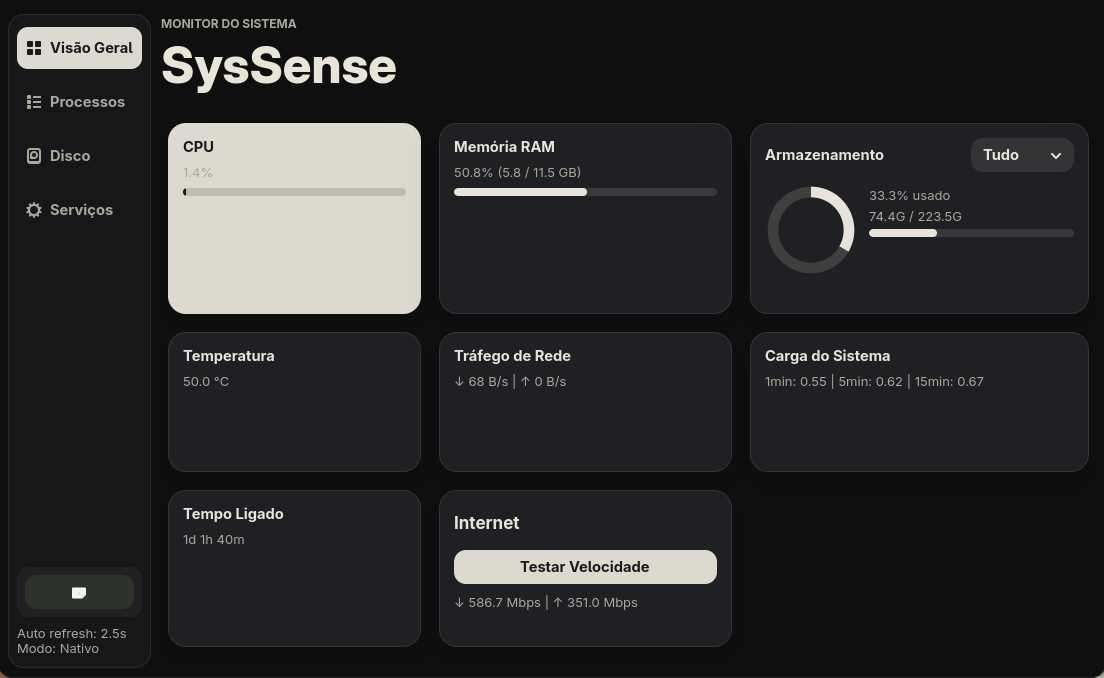
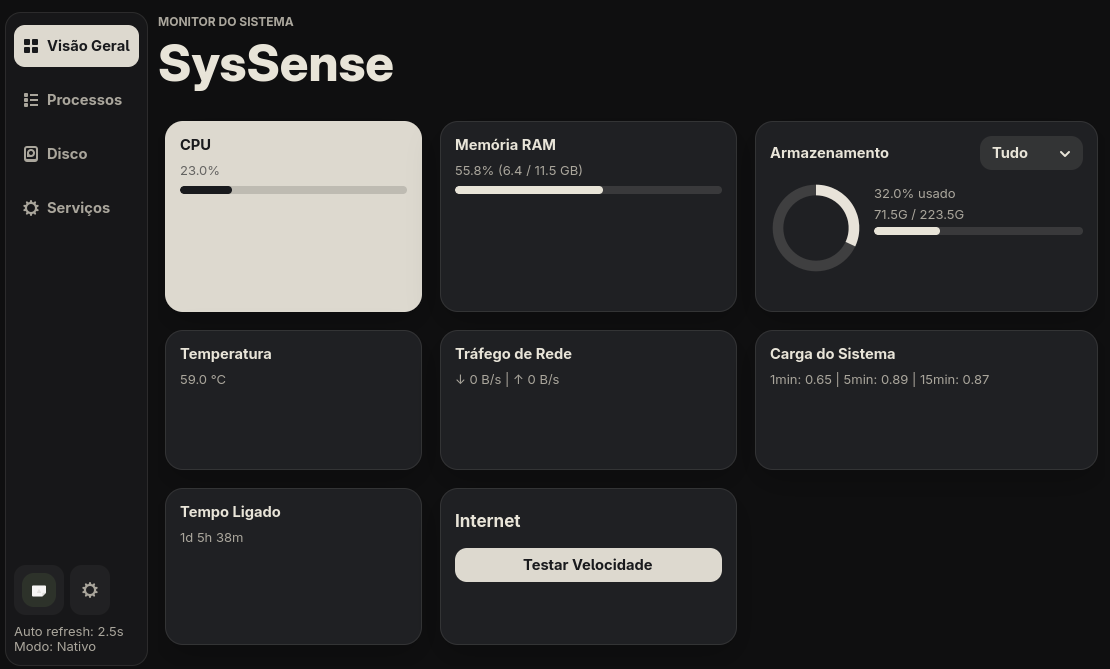
Fix: Nova imagem para v0.3

diff --git a/src/syssense/window.py b/src/syssense/window.py
@@ -607,10 +607,10 @@ class SysSenseWindow(Adw.ApplicationWindow):
         shell.set_hexpand(True)
         shell.set_vexpand(True)
         
-        # Notebook usado como stack de páginas; a navegação visual fica na sidebar.
-        self.notebook = Gtk.Notebook()
-        self.notebook.set_show_tabs(False)
-        self.notebook.set_show_border(False)
+        # Stack usado como navegação principal; a sidebar controla as páginas.
+        self.page_stack = Gtk.Stack()
+        self.page_stack.set_transition_type(Gtk.StackTransitionType.SLIDE_LEFT_RIGHT)
+        self.page_stack.set_transition_duration(180)
         
         # Cria abas
         self._create_tabs()
@@ -633,9 +633,9 @@ class SysSenseWindow(Adw.ApplicationWindow):
         title_box.append(title)
         content.append(title_box)
         
-        self.notebook.set_hexpand(True)
-        self.notebook.set_vexpand(True)
-        content.append(self.notebook)
+        self.page_stack.set_hexpand(True)
+        self.page_stack.set_vexpand(True)
+        content.append(self.page_stack)
         shell.append(content)
         
         return shell
@@ -881,7 +881,7 @@ class SysSenseWindow(Adw.ApplicationWindow):
 
     def _on_nav_clicked(self, button: Gtk.Button, page: int):
         """Alterna páginas pelo menu lateral."""
-        self.notebook.set_current_page(page)
+        self.page_stack.set_visible_child_name(self.page_names[page])
         self._set_active_nav(page)
 
     def _set_active_nav(self, page: int):
@@ -907,26 +907,23 @@ class SysSenseWindow(Adw.ApplicationWindow):
     
     def _create_tabs(self):
         """Cria todas as abas do aplicativo."""
+        self.page_names = ["overview", "processes", "disk", "services"]
+
         # Aba 1: Visão Geral
         overview_box = self._create_overview_tab()
-        overview_label = Gtk.Label(label="Visão Geral")
-        self.notebook.append_page(overview_box, overview_label)
+        self.page_stack.add_named(overview_box, "overview")
         
         # Aba 2: Processos
         processes_box = self._create_processes_tab()
-        processes_label = Gtk.Label(label="Processos")
-        self.notebook.append_page(processes_box, processes_label)
+        self.page_stack.add_named(processes_box, "processes")
         
         # Aba 3: Disco
         disk_box = self._create_disk_tab()
-        disk_label = Gtk.Label(label="Disco")
-        self.disk_tab_label = disk_label
-        self.notebook.append_page(disk_box, disk_label)
+        self.page_stack.add_named(disk_box, "disk")
         
         # Aba 4: Serviços
         services_box = self._create_services_tab()
-        services_label = Gtk.Label(label="Serviços")
-        self.notebook.append_page(services_box, services_label)
+        self.page_stack.add_named(services_box, "services")
         
     def _create_overview_tab(self) -> Gtk.Widget:
         """Aba de Visão Geral."""
